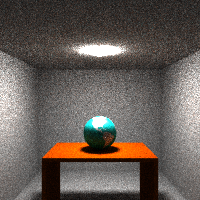
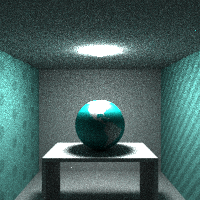
decorate walls in tiffany demo

diff --git a/examples/renderings/tiffany/main.go b/examples/renderings/tiffany/main.go
@@ -2,32 +2,16 @@ package main
 
 import (
 	"fmt"
-	"image/png"
 	"math"
-	"os"
 
-	"github.com/unixpickle/essentials"
 	"github.com/unixpickle/model3d"
 	"github.com/unixpickle/model3d/render3d"
-	"github.com/unixpickle/model3d/toolbox3d"
 )
 
 func main() {
-	r, err := os.Open("../../decoration/globe/map.png")
-	essentials.Must(err)
-	defer r.Close()
-	mapImage, err := png.Decode(r)
-	essentials.Must(err)
-
 	scene := render3d.JoinedObject{
-		&Globe{
-			Image: toolbox3d.NewEquirect(mapImage),
-			Base: &render3d.Sphere{
-				Center: model3d.Coord3D{},
-				Radius: 1,
-			},
-		},
-		CreateWalls(),
+		NewGlobe(),
+		NewWalls(),
 		CreateTable(),
 		CreateLight(),
 	}
@@ -46,7 +30,7 @@ func main() {
 		FocusPointProbs: []float64{0.5},
 
 		MaxDepth:   5,
-		NumSamples: 200,
+		NumSamples: 400,
 		Antialias:  1.0,
 		Cutoff:     1e-4,
 
@@ -63,52 +47,14 @@ func main() {
 	img.Save("output.png")
 }
 
-type Globe struct {
-	Image *toolbox3d.Equirect
-	Base  render3d.Object
-}
-
-func (g *Globe) Cast(r *model3d.Ray) (model3d.RayCollision, render3d.Material, bool) {
-	collision, material, ok := g.Base.Cast(r)
-	if !ok {
-		return collision, material, ok
-	}
-	point := r.Origin.Add(r.Direction.Scale(collision.Scale))
-
-	point = model3d.NewMatrix3Rotation(model3d.Coord3D{Z: 1}, -math.Pi/2).MulColumn(point)
-	point.Y, point.Z = point.Z, -point.Y
-
-	red, green, blue, _ := g.Image.At(point.Geo()).RGBA()
-	material = &render3d.PhongMaterial{
-		Alpha:         5,
-		SpecularColor: render3d.Color{X: 0.1, Y: 0.1, Z: 0.1},
-		DiffuseColor: render3d.Color{X: float64(red) / 0xffff, Y: float64(green) / 0xffff,
-			Z: float64(blue) / 0xffff},
-	}
-	return collision, material, ok
-}
-
-func CreateWalls() render3d.Object {
-	mesh := model3d.NewMeshRect(model3d.Coord3D{X: -6, Y: -15, Z: -5},
-		model3d.Coord3D{X: 6, Y: 8, Z: 5})
-
-	// Face normals inward.
-	mesh = mesh.MapCoords(model3d.Coord3D{X: -1, Y: 1, Z: 1}.Mul)
-
-	return &render3d.ColliderObject{
-		Collider: model3d.MeshToCollider(mesh),
-		Material: &render3d.LambertMaterial{
-			DiffuseColor: render3d.Color{X: 1, Y: 1, Z: 1},
-		},
-	}
-}
-
 func CreateTable() render3d.Object {
 	createPiece := func(min, max model3d.Coord3D) render3d.Object {
 		return &render3d.ColliderObject{
 			Collider: model3d.MeshToCollider(model3d.NewMeshRect(min, max)),
-			Material: &render3d.LambertMaterial{
-				DiffuseColor: render3d.Color{X: 0.75, Y: 0.25, Z: 0},
+			Material: &render3d.PhongMaterial{
+				Alpha:         5,
+				SpecularColor: render3d.Color{X: 0.2, Y: 0.2, Z: 0.2},
+				DiffuseColor:  render3d.Color{X: 0.8, Y: 0.8, Z: 0.8},
 			},
 		}
 	}

diff --git a/examples/renderings/tiffany/walls.go b/examples/renderings/tiffany/walls.go
@@ -1,0 +1,63 @@
+package main
+
+import (
+	"math"
+
+	"github.com/unixpickle/model3d"
+	"github.com/unixpickle/model3d/render3d"
+)
+
+var TiffanyBlue = render3d.Color{X: 129.0 / 255.0, Y: 216.0 / 255.0, Z: 208.0 / 255.0}
+
+type Walls struct {
+	Base *render3d.ColliderObject
+}
+
+func NewWalls() *Walls {
+	mesh := model3d.NewMeshRect(model3d.Coord3D{X: -6, Y: -15, Z: -5},
+		model3d.Coord3D{X: 6, Y: 8, Z: 5})
+
+	// Face normals inward.
+	mesh = mesh.MapCoords(model3d.Coord3D{X: -1, Y: 1, Z: 1}.Mul)
+
+	return &Walls{
+		Base: &render3d.ColliderObject{
+			Collider: model3d.MeshToCollider(mesh),
+			Material: &render3d.LambertMaterial{
+				DiffuseColor: render3d.Color{X: 1, Y: 1, Z: 1},
+			},
+		},
+	}
+}
+
+func (w *Walls) Cast(r *model3d.Ray) (model3d.RayCollision, render3d.Material, bool) {
+	collision, material, ok := w.Base.Cast(r)
+	if !ok {
+		return collision, material, ok
+	}
+	point := r.Origin.Add(r.Direction.Scale(collision.Scale))
+
+	if math.Abs(point.X-w.Base.Collider.Max().X) < 1e-8 {
+		scale := 1.0
+		if math.Abs(math.Mod(point.Z+point.Y+100, 1.0)-0.5) < 0.25 {
+			scale = 1.2
+		}
+		material = &render3d.LambertMaterial{
+			DiffuseColor: TiffanyBlue.Scale(scale),
+		}
+	} else if math.Abs(point.X-w.Base.Collider.Min().X) < 1e-8 {
+		scale := 1.2
+		zMod1 := math.Mod(point.Z+100, 2) - 1
+		yMod1 := math.Mod(point.Y+100, 4) - 2
+		zMod2 := math.Mod(point.Z+101, 2) - 1
+		yMod2 := math.Mod(point.Y+102, 4) - 2
+		if math.Sqrt(zMod1*zMod1+yMod1*yMod1) < 0.4 || math.Sqrt(zMod2*zMod2+yMod2*yMod2) < 0.4 {
+			scale = 1.0
+		}
+		material = &render3d.LambertMaterial{
+			DiffuseColor: TiffanyBlue.Scale(scale),
+		}
+	}
+
+	return collision, material, ok
+}

diff --git a/examples/renderings/tiffany/globe.go b/examples/renderings/tiffany/globe.go
@@ -1,0 +1,53 @@
+package main
+
+import (
+	"image/png"
+	"math"
+	"os"
+
+	"github.com/unixpickle/essentials"
+	"github.com/unixpickle/model3d"
+	"github.com/unixpickle/model3d/render3d"
+	"github.com/unixpickle/model3d/toolbox3d"
+)
+
+type Globe struct {
+	Image *toolbox3d.Equirect
+	Base  *render3d.Sphere
+}
+
+func NewGlobe() *Globe {
+	r, err := os.Open("../../decoration/globe/map.png")
+	essentials.Must(err)
+	defer r.Close()
+	mapImage, err := png.Decode(r)
+	essentials.Must(err)
+
+	return &Globe{
+		Image: toolbox3d.NewEquirect(mapImage),
+		Base: &render3d.Sphere{
+			Center: model3d.Coord3D{Z: 0.5},
+			Radius: 1.5,
+		},
+	}
+}
+
+func (g *Globe) Cast(r *model3d.Ray) (model3d.RayCollision, render3d.Material, bool) {
+	collision, material, ok := g.Base.Cast(r)
+	if !ok {
+		return collision, material, ok
+	}
+	point := r.Origin.Add(r.Direction.Scale(collision.Scale)).Sub(g.Base.Center)
+
+	point = model3d.NewMatrix3Rotation(model3d.Coord3D{Z: 1}, -math.Pi/2).MulColumn(point)
+	point.Y, point.Z = point.Z, -point.Y
+
+	red, green, blue, _ := g.Image.At(point.Geo()).RGBA()
+	material = &render3d.PhongMaterial{
+		Alpha:         5,
+		SpecularColor: render3d.Color{X: 0.1, Y: 0.1, Z: 0.1},
+		DiffuseColor: render3d.Color{X: float64(red) / 0xffff, Y: float64(green) / 0xffff,
+			Z: float64(blue) / 0xffff}.Scale(0.9),
+	}
+	return collision, material, ok
+}
